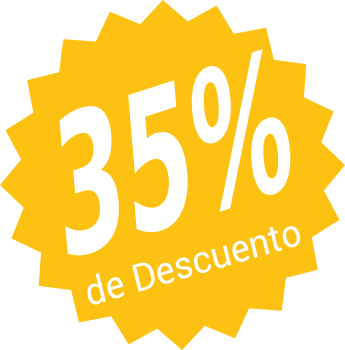
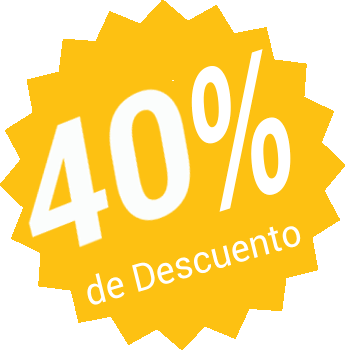
cambios 40

diff --git a/index.html b/index.html
@@ -192,7 +192,7 @@
 					</div>
 					<div class="col-md-7 col-sm-7">
 						<h5>Obten</h5>
-						<h1>35% de descuento ya!</h1>
+						<h1>40% de descuento ya!</h1>
 						<h5>Sitio web profesional + Dominio</h5>
 					</div>
 					<div class="col-md-3 mobile-center">
@@ -219,12 +219,15 @@
 						<div class="single-pricing">
 							<div class="top-outer">
 								<div class="top red">
-									<img src="images/plan-icon.png" alt="plan" />
+									<img src="images/sitios.png" alt="plan" />
 									<h4>Sitio web</h4>
 								</div>
 							</div>
 							<div class="bottom text-center red-color">
-								<h2><span>$</span>570 <small>/IVA Incluido</small></h2>
+								<br/><br/>
+					
+								<h4><span><small>*Precio normal </small>$</span><strike>549.99</strike></h4>
+								<h2><span>$</span>329.99 <small>con <img src="images/desc-mini.png" alt="40%" /></small></h2>
 								<div class="price-line"></div>
 								<ul>
 									
@@ -244,12 +247,16 @@
 						<div class="single-pricing">
 							<div class="top-outer">
 								<div class="top dark-blue">
-									<img src="images/plan-icon.png" alt="plan" />
-									<h4>Adicional A</h4>
+									<img src="images/marketing-strategy.png" alt="plan" />
+									<h4>Campaña A</h4>
+
 								</div>
+
 							</div>
 							<div class="bottom text-center dark-blue-color">
-								<h2><span>$</span>99.99 <small>/IVA Incluido</small></h2>
+								<br/><br/>
+								<h4><span><small>*Precio normal </small>$</span><strike>149.99</strike></h4>
+								<h2><span>$</span>89.99 <small> con <img src="images/desc-mini.png" alt="40%" /></small></h2>
 								<div class="price-line"></div>
 								<ul>
 									<li><strong>1 mes</strong> Campaña de lanzamiento FB</li>
@@ -269,12 +276,15 @@
 						<div class="single-pricing">
 							<div class="top-outer">
 								<div class="top blue">
-									<img src="images/plan-icon.png" alt="plan" />
-									<h4>Adicional B</h4>
+									<img src="images/marketing+google.png" alt="plan" />
+									<h4>Campaña + G</h4>
 								</div>
 							</div>
 							<div class="bottom text-center blue-color">
-								<h2><span>$</span>149.99 <small>/IVA Incluido</small></h2>
+								<br/><br/>
+								<h4><span><small>*Precio normal </small>$</span><strike>199.99</strike></h4>
+						
+								<h2><span>$</span>119.99 <small>con <img src="images/desc-mini.png" alt="40%" /></small> </h2>
 								<div class="price-line"></div>
 								<ul>
 									<li><strong>1</strong> Correo empresarial</li>

diff --git a/css/style.css b/css/style.css
@@ -500,9 +500,9 @@ img{
 	font-weight:700;
 	padding-top:50px;
 }
-.single-pricing .bottom h2 small{
+.single-pricing .bottom h4 small{
 	font-weight:400;
-	font-size:24px;
+	font-size:16px;
 }
 .single-pricing .bottom h2 span{
 	font-weight:400;
